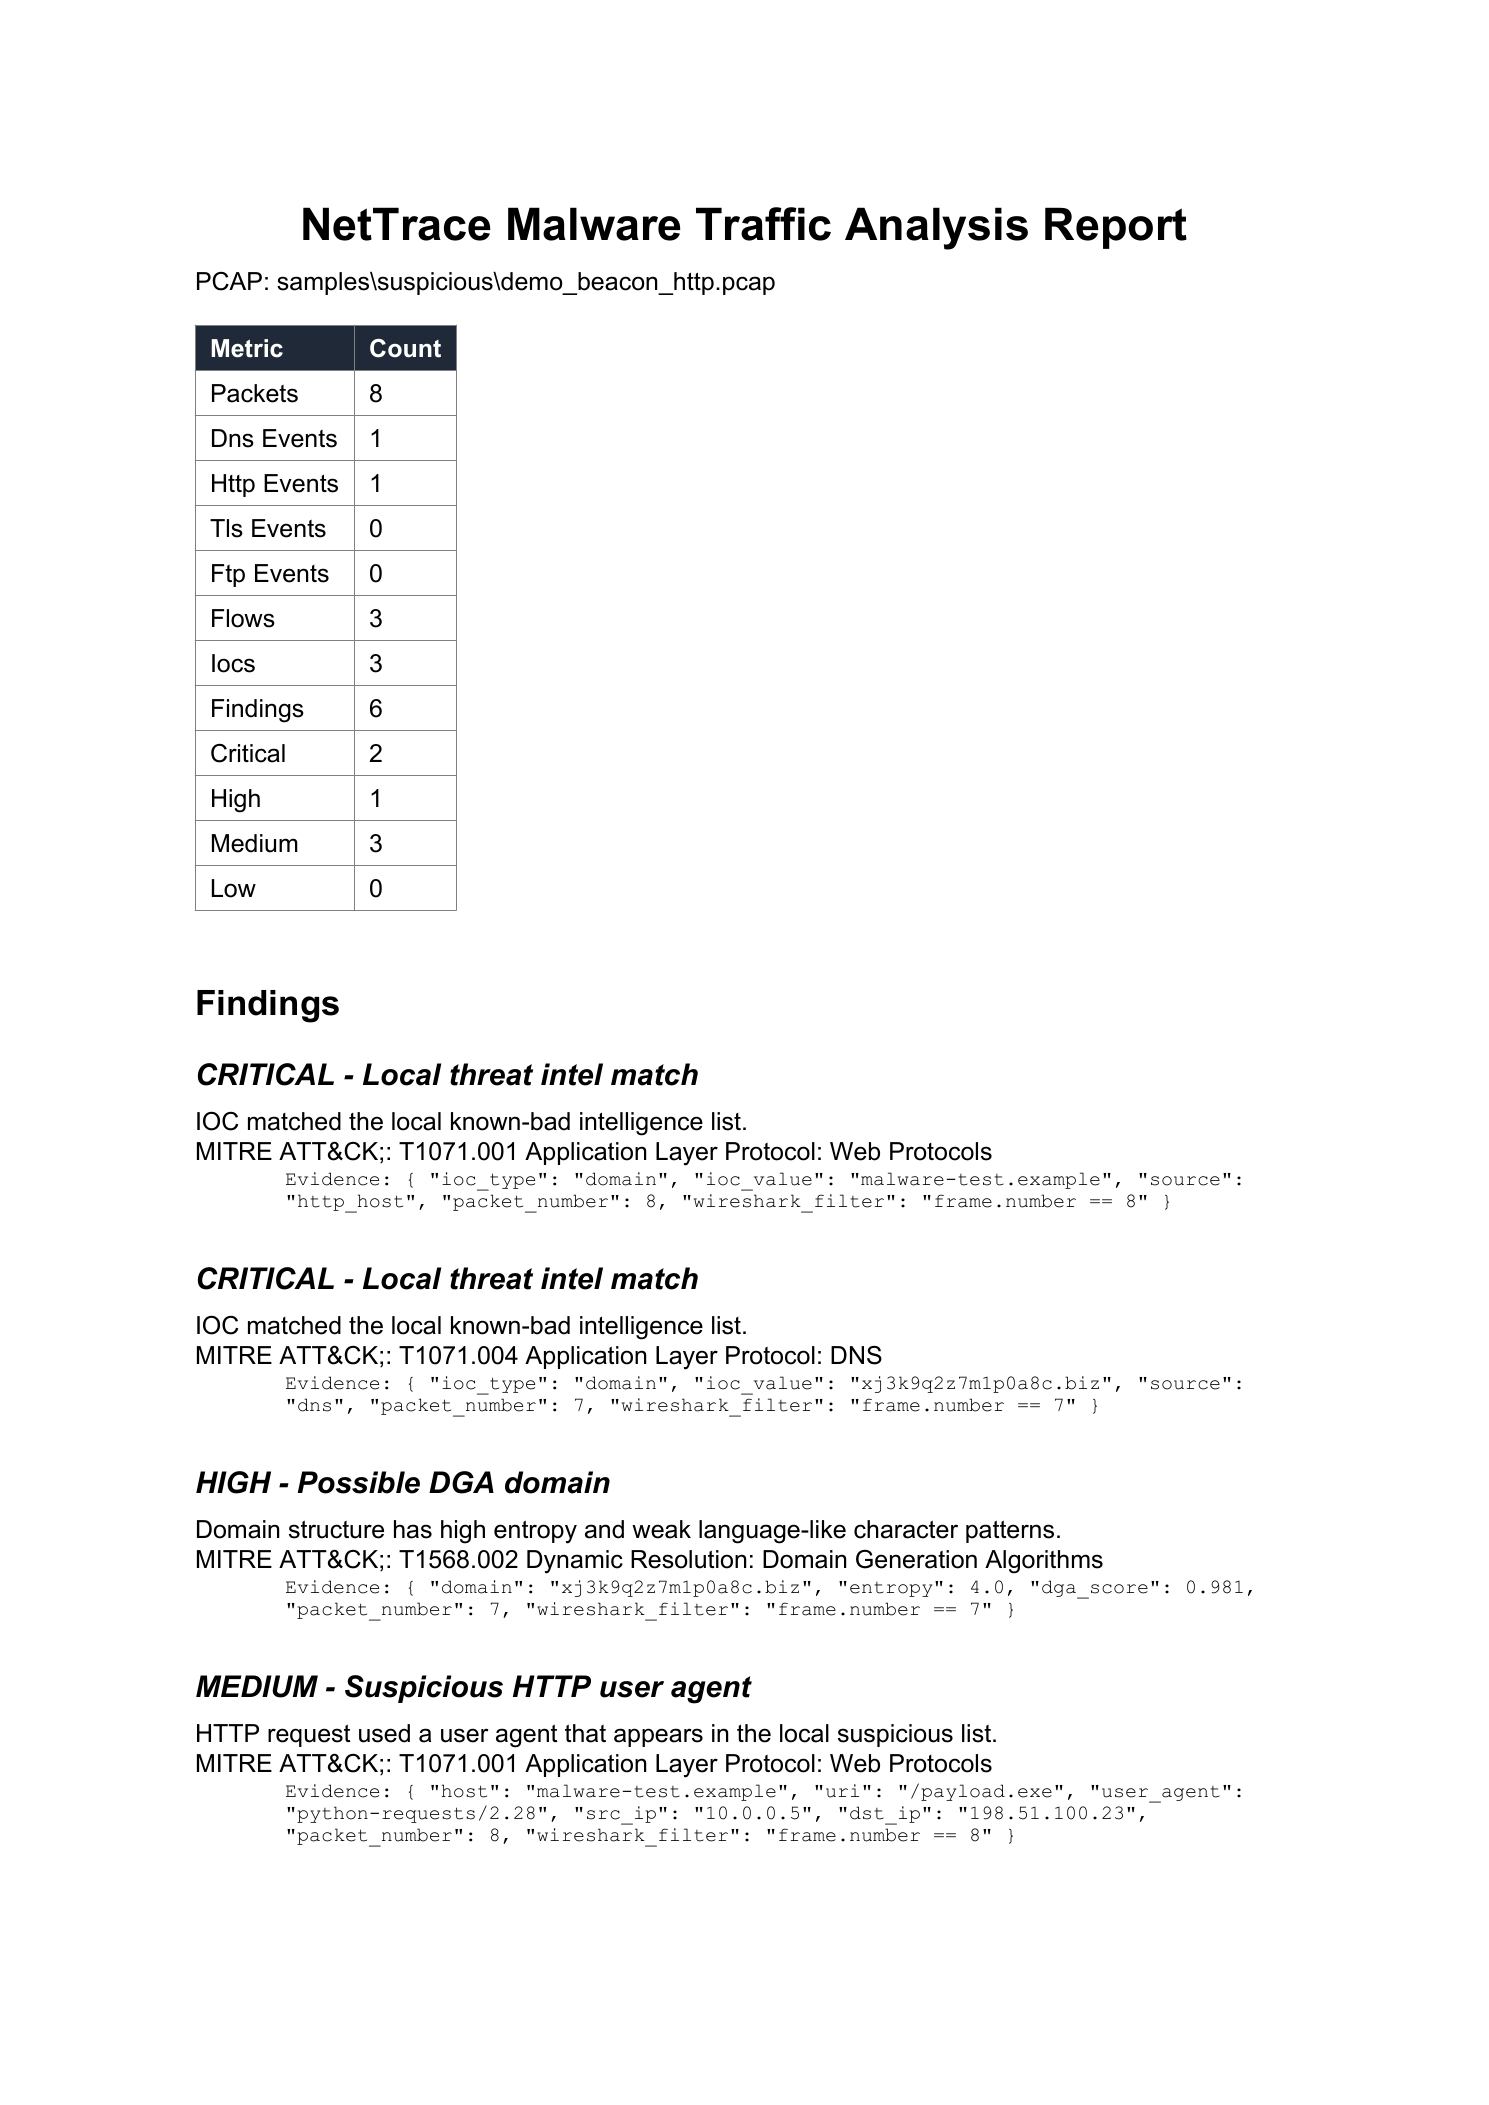
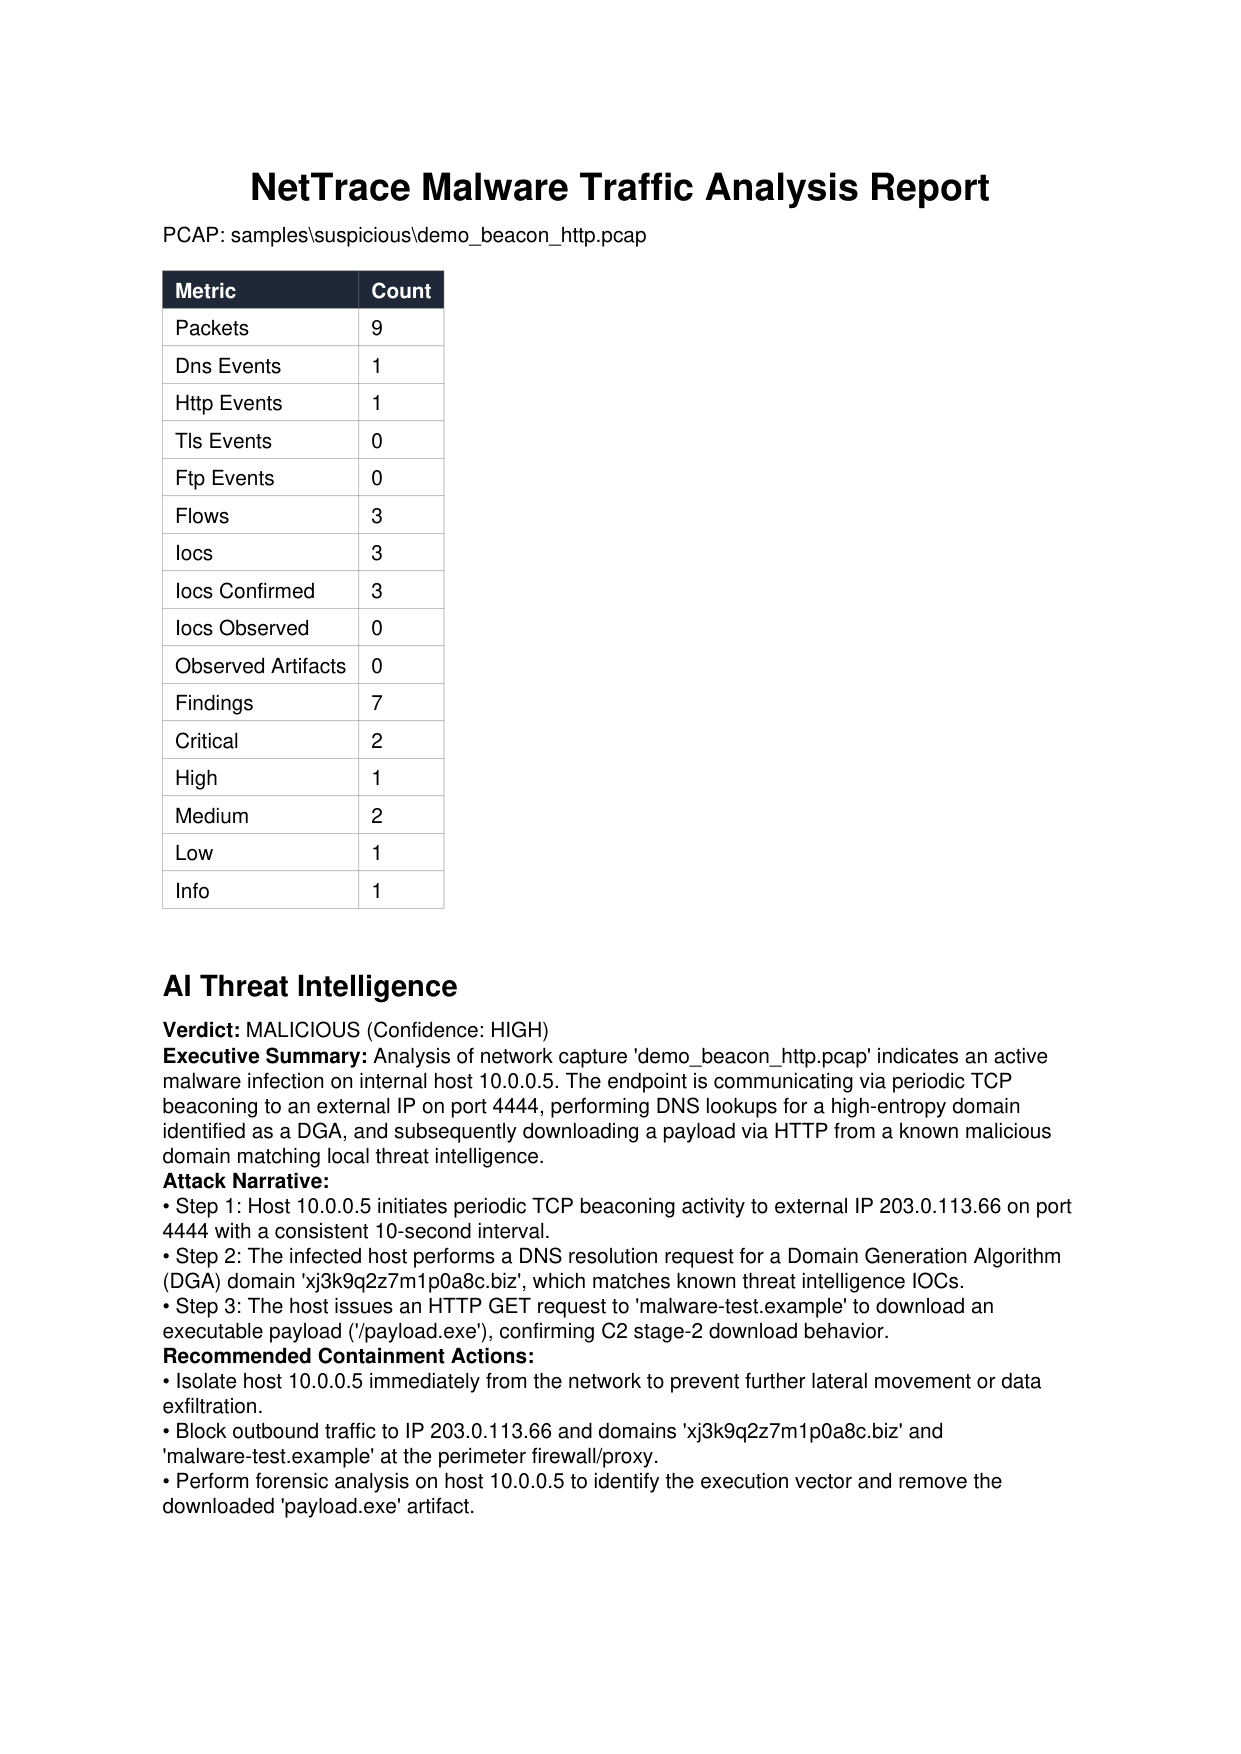
docs: update demo reports and preview asset with AI threat intelligence

diff --git a/docs/demo/demo_beacon_http_report.html b/docs/demo/demo_beacon_http_report.html
@@ -37,7 +37,24 @@
     .warning { padding: 12px 15px; border: 1px solid #784c17; border-radius: 10px; background: #2a1d0c; color: #fbd38d; }
     .empty { padding: 18px; color: var(--muted); }
     .truncation { margin: 10px 0 0; padding: 10px 14px; border: 1px dashed #3a5a7d; border-radius: 10px; background: rgba(19, 36, 58, .7); color: #a9c4df; font-size: 13px; }
-    @media (max-width: 640px) { main { width: min(100% - 24px, 1180px); } th, td { padding: 9px; } }
+    .ai-box { padding: 20px; border: 1px solid #0284c7; border-radius: 14px; background: linear-gradient(135deg, rgba(14, 116, 144, 0.18), rgba(14, 27, 45, 0.92)); margin-bottom: 24px; }
+    .ai-verdict { display: inline-block; padding: 4px 10px; border-radius: 8px; font-weight: bold; font-size: 13px; text-transform: uppercase; margin-bottom: 12px; }
+    .verdict-malicious { background: #e11d48; color: #fff; }
+    .verdict-suspicious { background: #d97706; color: #fff; }
+    .verdict-benign { background: #059669; color: #fff; }
+    .ai-box h3 { margin: 14px 0 6px; color: #38bdf8; font-size: 15px; }
+    .ai-box ul { margin: 6px 0 12px 20px; padding: 0; color: #cbd5e1; }
+    .hunting-tip-item { display: flex; align-items: center; justify-content: space-between; margin-bottom: 6px; padding: 6px 10px; background: rgba(7, 16, 29, 0.6); border: 1px solid #1e3a5f; border-radius: 6px; }
+    .hunting-tip-text { font-family: ui-monospace, SFMono-Regular, Menlo, Monaco, Consolas, monospace; font-size: 12px; color: #7dd3fc; word-break: break-all; }
+    .copy-btn { margin-left: 10px; padding: 4px 10px; background: #0284c7; color: white; border: none; border-radius: 4px; font-size: 11px; font-weight: 600; cursor: pointer; transition: background 0.2s; white-space: nowrap; }
+    .copy-btn:hover { background: #0369a1; }
+    .copy-btn.copied { background: #059669; }
+    .chain-diagram { display: flex; flex-wrap: wrap; gap: 8px; align-items: center; margin: 16px 0; padding: 14px; background: rgba(7, 16, 29, 0.7); border: 1px solid #1e3a5f; border-radius: 10px; }
+    .chain-step { display: flex; align-items: center; gap: 8px; background: #13243a; padding: 8px 12px; border-radius: 8px; border: 1px solid #223d60; }
+    .chain-step-num { display: inline-flex; align-items: center; justify-content: center; width: 22px; height: 22px; border-radius: 50%; background: #0284c7; color: white; font-size: 11px; font-weight: bold; flex-shrink: 0; }
+    .chain-step-text { font-size: 12px; color: #e2e8f0; }
+    .chain-arrow { color: #38bdf8; font-weight: bold; font-size: 16px; user-select: none; }
+    @media (max-width: 640px) { main { width: min(100% - 24px, 1180px); } th, td { padding: 9px; } .chain-diagram { flex-direction: column; align-items: stretch; } .chain-arrow { text-align: center; transform: rotate(90deg); margin: 2px 0; } }
   </style>
 </head>
 <body>
@@ -55,6 +72,56 @@
     </div>
   </header>
 
+
+  <h2>AI Threat Intelligence</h2>
+  <div class="ai-box">
+    <div>
+      <span class="ai-verdict verdict-malicious">
+        Verdict: MALICIOUS (Confidence: HIGH)
+      </span>
+    </div>
+    <h3>Executive Summary</h3>
+    <p>Analysis of network capture &#39;demo_beacon_http.pcap&#39; indicates an active malware infection on internal host 10.0.0.5. The endpoint is communicating via periodic TCP beaconing to an external IP on port 4444, performing DNS lookups for a high-entropy domain identified as a DGA, and subsequently downloading a payload via HTTP from a known malicious domain matching local threat intelligence.</p>
+    <h3>Attack Narrative</h3>
+    <div class="chain-diagram">
+      <div class="chain-step">
+        <span class="chain-step-num">1</span>
+        <span class="chain-step-text">Host 10.0.0.5 initiates periodic TCP beaconing activity to external IP 203.0.113.66 on port 4444 with a consistent 10-second interval.</span>
+      </div>
+      <span class="chain-arrow">&rarr;</span>
+      <div class="chain-step">
+        <span class="chain-step-num">2</span>
+        <span class="chain-step-text">The infected host performs a DNS resolution request for a Domain Generation Algorithm (DGA) domain &#39;xj3k9q2z7m1p0a8c.biz&#39;, which matches known threat intelligence IOCs.</span>
+      </div>
+      <span class="chain-arrow">&rarr;</span>
+      <div class="chain-step">
+        <span class="chain-step-num">3</span>
+        <span class="chain-step-text">The host issues an HTTP GET request to &#39;malware-test.example&#39; to download an executable payload (&#39;/payload.exe&#39;), confirming C2 stage-2 download behavior.</span>
+      </div>
+    </div>
+    <ul>
+      <li>Step 1: Host 10.0.0.5 initiates periodic TCP beaconing activity to external IP 203.0.113.66 on port 4444 with a consistent 10-second interval.</li>
+      <li>Step 2: The infected host performs a DNS resolution request for a Domain Generation Algorithm (DGA) domain &#39;xj3k9q2z7m1p0a8c.biz&#39;, which matches known threat intelligence IOCs.</li>
+      <li>Step 3: The host issues an HTTP GET request to &#39;malware-test.example&#39; to download an executable payload (&#39;/payload.exe&#39;), confirming C2 stage-2 download behavior.</li>
+    </ul>
+    <h3>Recommended Containment Actions</h3>
+    <ul>
+      <li>Isolate host 10.0.0.5 immediately from the network to prevent further lateral movement or data exfiltration.</li>
+      <li>Block outbound traffic to IP 203.0.113.66 and domains &#39;xj3k9q2z7m1p0a8c.biz&#39; and &#39;malware-test.example&#39; at the perimeter firewall/proxy.</li>
+      <li>Perform forensic analysis on host 10.0.0.5 to identify the execution vector and remove the downloaded &#39;payload.exe&#39; artifact.</li>
+    </ul>
+    <h3>Wireshark Hunting Guidance</h3>
+    <div style="margin-top: 10px;">
+      <div class="hunting-tip-item">
+        <span class="hunting-tip-text" id="filter-1">Use filter &#39;ip.addr == 10.0.0.5&#39; to review all network activity originating from the compromised host.</span>
+        <button type="button" class="copy-btn" onclick="copyFilter('filter-1', this)">Copy Filter</button>
+      </div>
+      <div class="hunting-tip-item">
+        <span class="hunting-tip-text" id="filter-2">Use filter &#39;tcp.port == 4444 or http.request&#39; to isolate potential C2 channels and payload download requests.</span>
+        <button type="button" class="copy-btn" onclick="copyFilter('filter-2', this)">Copy Filter</button>
+      </div>
+    </div>
+  </div>
 
   <h2>Summary</h2>
   <div class="panel"><table>
@@ -233,5 +300,19 @@
     <tr><td>70.000</td><td>finding</td><td>Possible executable/script download request</td></tr>
   </table></div>
 </main>
+<script>
+function copyFilter(elemId, btn) {
+  const text = document.getElementById(elemId).innerText.trim();
+  navigator.clipboard.writeText(text).then(() => {
+    const originalText = btn.innerText;
+    btn.innerText = 'Copied!';
+    btn.classList.add('copied');
+    setTimeout(() => {
+      btn.innerText = originalText;
+      btn.classList.remove('copied');
+    }, 1800);
+  });
+}
+</script>
 </body>
 </html>

diff --git a/docs/demo/demo_FINDINGS.md b/docs/demo/demo_FINDINGS.md
@@ -2,7 +2,6 @@
 
 ## Dataset
 
-- Source: NetTrace synthetic safety demo
 - PCAP analyzed: `samples\suspicious\demo_beacon_http.pcap`
 
 ## Tool Summary
@@ -36,6 +35,29 @@ NetTrace analyzed `samples\suspicious\demo_beacon_http.pcap` and identified `10.
 - Command-line or automation HTTP client observed: 1
 - Possible executable/script download request: 1
 - Connection to suspicious non-standard port: 1
+
+## AI Threat Intelligence
+
+- Threat Verdict: MALICIOUS (Confidence: HIGH)
+
+**Executive Summary:** Analysis of network capture 'demo_beacon_http.pcap' indicates an active malware infection on internal host 10.0.0.5. The endpoint is communicating via periodic TCP beaconing to an external IP on port 4444, performing DNS lookups for a high-entropy domain identified as a DGA, and subsequently downloading a payload via HTTP from a known malicious domain matching local threat intelligence.
+
+### Attack Narrative
+
+- `Step 1: Host 10.0.0.5 initiates periodic TCP beaconing activity to external IP 203.0.113.66 on port 4444 with a consistent 10-second interval.`
+- `Step 2: The infected host performs a DNS resolution request for a Domain Generation Algorithm (DGA) domain 'xj3k9q2z7m1p0a8c.biz', which matches known threat intelligence IOCs.`
+- `Step 3: The host issues an HTTP GET request to 'malware-test.example' to download an executable payload ('/payload.exe'), confirming C2 stage-2 download behavior.`
+
+### Recommended Containment Actions
+
+- `Isolate host 10.0.0.5 immediately from the network to prevent further lateral movement or data exfiltration.`
+- `Block outbound traffic to IP 203.0.113.66 and domains 'xj3k9q2z7m1p0a8c.biz' and 'malware-test.example' at the perimeter firewall/proxy.`
+- `Perform forensic analysis on host 10.0.0.5 to identify the execution vector and remove the downloaded 'payload.exe' artifact.`
+
+### Wireshark Hunting Guidance
+
+- `Use filter 'ip.addr == 10.0.0.5' to review all network activity originating from the compromised host.`
+- `Use filter 'tcp.port == 4444 or http.request' to isolate potential C2 channels and payload download requests.`
 
 ## Potential ATT&CK Technique Associations
 
